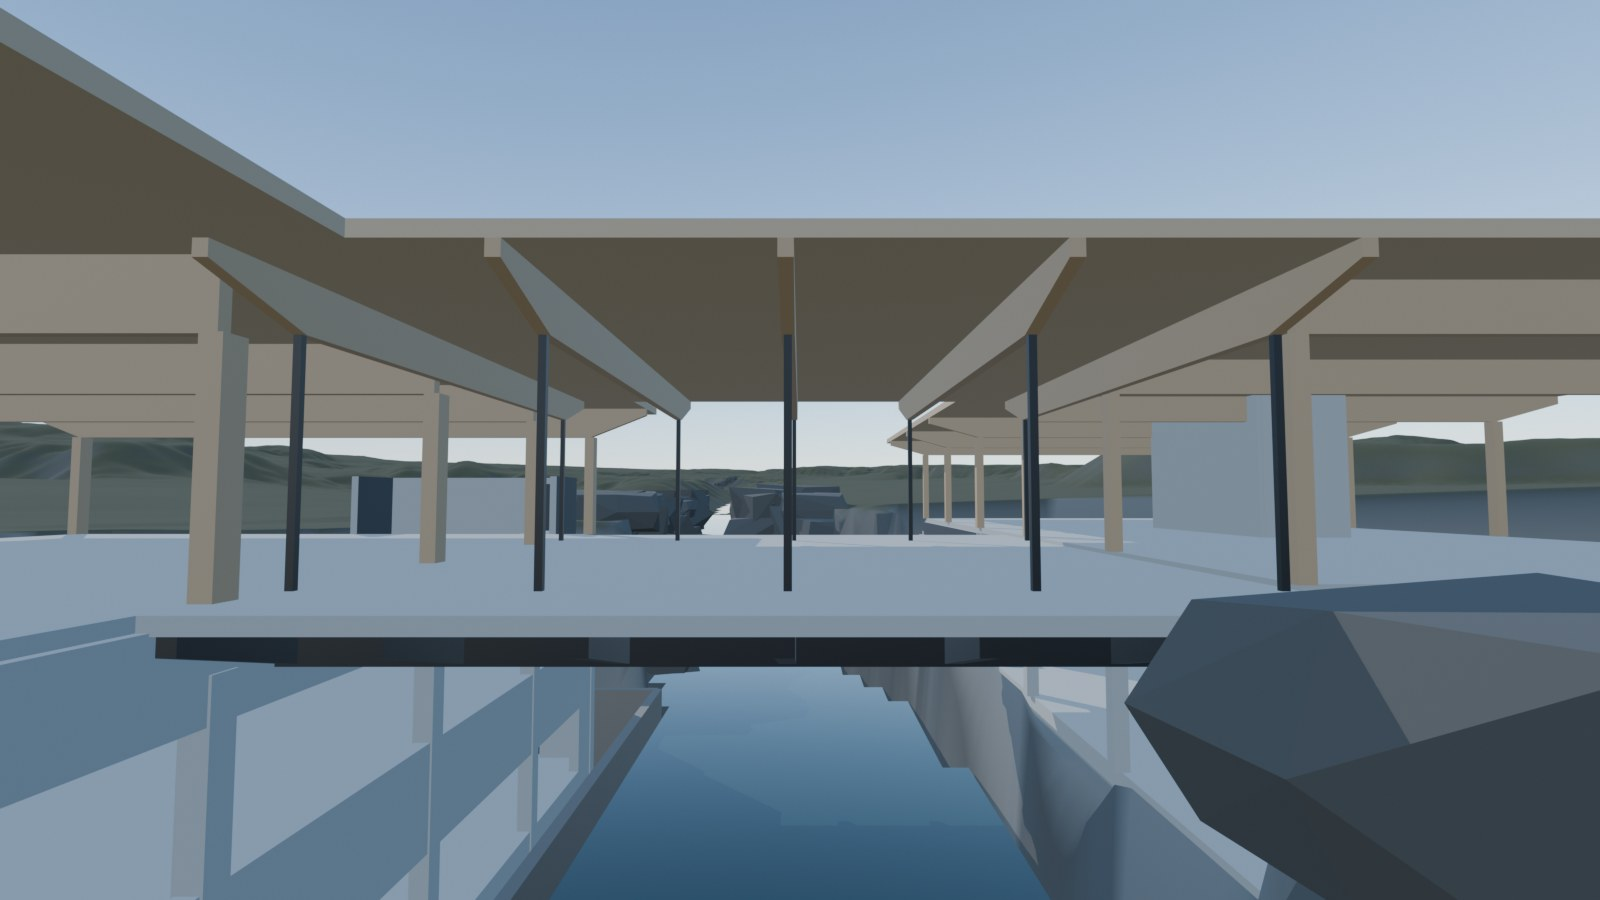
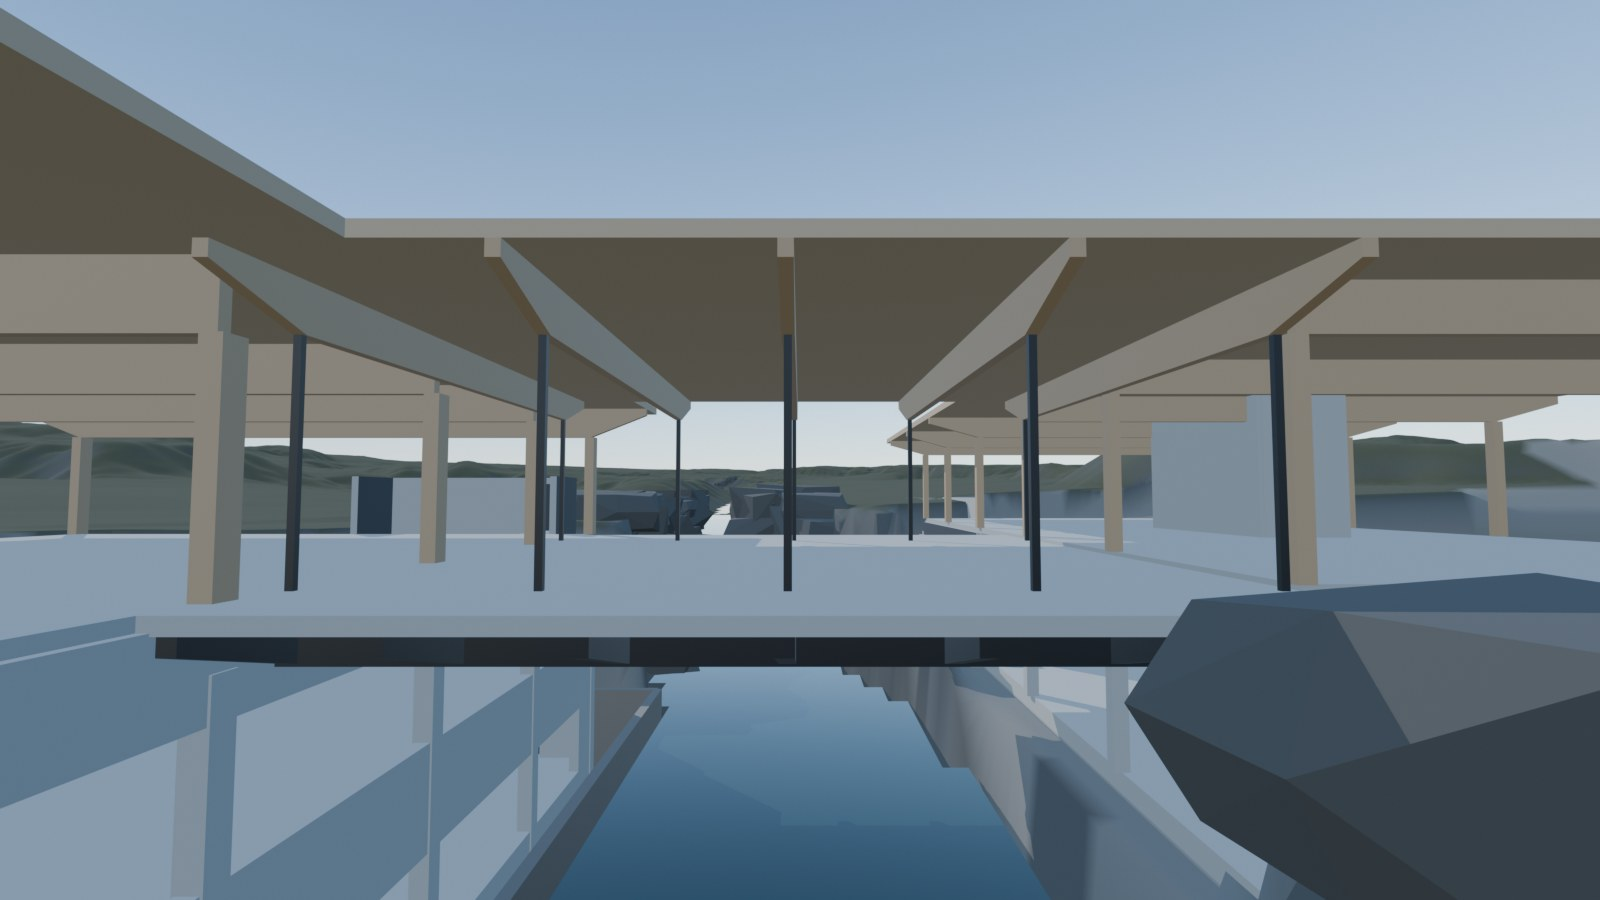
Stage coverage: sunken daycare garden + other missed site earthworks (road, drop-off loop, trailhead lot, garage ledge, sauna pad) now dug in stage 1, garden west retaining wall; tools/stage_check.py runs after every build and flags designed work no stage builds; outbuildings + bridges assigned to s
Prompt: yes do that and see other things that might require that too so we dont miss stuff, also add this as an example of an oversight so we catch stuff like this as we go autoamtically rather than me remind
Prompt-Time: 2026-10-11T06:07:53.900Z
Session-Id: c2657e98-4c3e-42ed-8843-4cbcc10033d7

diff --git a/tools/stage_check.py b/tools/stage_check.py
@@ -1,0 +1,114 @@
+"""Construction coverage check: everything designed must be built by some stage, and nothing a built stage owns may be missing.
+
+Written after an oversight: the sunken daycare garden was designed in the site model, but no construction stage dug it,
+so the daycare's walk-out glass faced untouched ground in the stage 1 and 3 renders (caught by Roman, not by us).
+Runs last in tools/build_model.py and prints a report; it never blocks the build.
+
+Sweeps:
+  1. terrain: every cell where the designed site differs from the natural ground (cut or fill) belongs to a site-work kind;
+     each kind must be owned by a stage, and once that stage is built, the construction terrain must have done the cut.
+  2. site features: every entry in site.features (and every surface / path / stepping-stone line) must be owned by a stage,
+     and an owner stage that is already built must show evidence (elements or earthworks).
+  3. elements: every element has a phase or a planned later stage; every stair and core stair is built once stage 3 is.
+When you add something to the design, give it an owner here; when a stage is built, its evidence has to exist.
+python3 tools/stage_check.py
+"""
+import sys
+from pathlib import Path
+
+import numpy as np
+from matplotlib.path import Path as MPath
+from scipy import ndimage as ndi
+
+ROOT = Path(__file__).resolve().parents[1]
+sys.path.insert(0, str(ROOT / "terrain"))
+import modelio  # noqa: E402
+
+m = modelio.load()
+els = m["elements"]
+ids = {e["id"] for e in els}
+BUILT = max(e.get("phase", 0) for e in els)  # highest construction stage built so far
+issues, notes = [], []
+
+# ---- 1. terrain: site works (terrain/ravine.py MASK kinds) and the stage that does the earthworks
+KIND = {"asphalt": 1, "shoulder": 2, "court": 4, "ramp": 8, "garden": 16, "path": 32, "sauna": 64, "tunnel": 128, "trail": 256,
+        "planting": 512, "stone": 1024, "gravel": 2048, "lawn": 4096, "deck": 8192}
+EARTHWORKS_STAGE = {"asphalt": 1, "shoulder": 1, "court": 1, "ramp": 1, "garden": 1, "sauna": 1, "tunnel": 1, "gravel": 1,
+                    "path": 6, "trail": 6, "planting": 6, "stone": 6, "lawn": 6, "deck": 6, "pad": 1}
+RV, OUT = ROOT / "terrain" / "out" / "ravine", ROOT / "construction" / "out"
+nat, des, fm = np.load(RV / "natural_1m.npy"), np.load(RV / "terrain_1m.npy"), np.load(RV / "features_1m.npy").astype(int)
+stage_t = nat.copy()
+if BUILT >= 1:
+    stage_t = np.minimum(nat + np.load(OUT / "earthworks_1m.npy"), np.load(OUT / "pit_1m.npy"))
+g = np.arange(-1000, 1000) + 0.5
+X, Y = np.meshgrid(g, g)
+pad = np.zeros(X.shape, bool)
+for p in m["site"]["pads"]:
+    pad |= MPath(p["poly"]).contains_points(np.stack([X.ravel(), Y.ravel()], 1)).reshape(X.shape)
+changed = np.abs(des - nat) > 0.3
+_, (iy, ix) = ndi.distance_transform_edt(fm == 0, return_indices=True)
+owner_bits = np.where(fm > 0, fm, np.where(ndi.distance_transform_edt(fm == 0) <= 25, fm[iy, ix], 0))  # side slopes -> nearest work
+unowned = changed & (owner_bits == 0) & ~pad
+if unowned.sum() > 20:
+    issues.append(f"terrain: {int(unowned.sum())} m2 of site works with no feature tag (bbox x {X[unowned].min():.0f}..{X[unowned].max():.0f}, "
+                  f"y {Y[unowned].min():.0f}..{Y[unowned].max():.0f}): tag it in terrain/ravine.py and give it a stage here")
+undug = changed & (des < stage_t - 0.3)  # designed lower than what the built stages have dug
+for k, b in list(KIND.items()) + [("pad", None)]:
+    cells = pad if b is None else (owner_bits & b) > 0
+    work = changed & cells
+    if not work.any():
+        continue
+    st = EARTHWORKS_STAGE.get(k)
+    if st is None:
+        issues.append(f"terrain: site-work kind '{k}' ({int(work.sum())} m2) has no construction stage")
+    elif st <= BUILT and (undug & cells).sum() > 20:
+        u = undug & cells
+        issues.append(f"terrain: '{k}' belongs to stage {st} (built) but {int(u.sum())} m2 / {float((stage_t - des)[u].sum()):.0f} m3 is not dug "
+                      f"(bbox x {X[u].min():.0f}..{X[u].max():.0f}, y {Y[u].min():.0f}..{Y[u].max():.0f})")
+
+# ---- 2. site features: owner stages + evidence once a stage is built ("terrain" = covered by sweep 1, else an element id prefix)
+FEATURES = {
+    "road": {1: "terrain", 6: None}, "garage_ramp": {1: "FDN-ramp-"}, "daycare_garden": {1: "FDN-garden-wall-", 6: None},
+    "sauna": {6: None}, "sauna_path": {6: None}, "trail": {6: None}, "bike_shelter": {6: None}, "trailhead_sign": {6: None},
+    "outdoor_rig": {6: None},
+}
+LIST_STAGE = {"asphalt": {1: "terrain", 6: None}, "gravel": {1: "terrain", 6: None}, "lawn": {6: None}, "planting": {6: None}, "deck": {6: None}}
+for name, v in m["site"]["features"].items():
+    if not isinstance(v, (dict, list)):
+        continue
+    entries = [(name, FEATURES.get(name))] if isinstance(v, dict) else \
+        [(f"{name}:{it['id']}", LIST_STAGE.get(it.get("kind"), {6: None}) if name == "surfaces" else {6: None}) for it in v]
+    for label, own in entries:
+        if own is None:
+            issues.append(f"feature '{label}' has no construction stage: add it to FEATURES in tools/stage_check.py and to CONSTRUCTION_PLAN.md")
+            continue
+        for st, ev in own.items():
+            if st <= BUILT and ev not in (None, "terrain") and not any(i.startswith(ev) for i in ids):
+                issues.append(f"feature '{label}': stage {st} is built but nothing matches '{ev}*'")
+
+# ---- 3. elements, stairs, cores
+LATER = [(lambda e: e.get("material") == "glass" or e.get("kind") == "glazed", 4), (lambda e: e.get("material") == "sod", 4),
+         (lambda e: e.get("kind") == "partition" or e.get("material") == "timber_stud", 5)]
+for e in els:
+    if e.get("phase") is None and not any(f(e) for f, _ in LATER):
+        issues.append(f"element {e['id']} ({e['type']} {e.get('material')}) has no phase and no planned stage")
+later = {}
+for e in els:
+    if e.get("phase") is None:
+        st = next(s for f, s in LATER if f(e)); later[st] = later.get(st, 0) + 1
+notes.append("waiting for later stages: " + ", ".join(f"stage {s}: {n} elements" for s, n in sorted(later.items())))
+if BUILT >= 3:
+    for st in m["stairs"]:
+        ev = f"ST3-{st['id']}" if st["kind"] == "spiral" else "ST3-stair-N34" if st["id"] == "north_f3_f4" else None
+        if ev is None or ev not in ids and not any(i.startswith(ev) for i in ids):
+            issues.append(f"stair {st['id']} is not built in stage 3")
+    for c in {s["id"].split("-")[1] for s in m["spaces"] if s["kind"] == "core" and "stair" in s["name"]}:
+        if not any(i.startswith(f"ST3-stair-{c}-") for i in ids):
+            issues.append(f"core {c} has a stair in the plan but no stair flights")
+notes.append(f"fixtures (stage 5): {len(m.get('fixtures', []))}")
+
+print(f"stage check (built up to stage {BUILT}): " + ("OK" if not issues else f"{len(issues)} issue(s)"))
+for i in issues:
+    print("  !", i)
+for n in notes:
+    print("  ·", n)

diff --git a/tools/foundations.py b/tools/foundations.py
@@ -157,6 +157,13 @@ x_a, x_b = min(p[0] for p in pts if p[0] <= rp["tunnel_from_x"] + 0.01), rp["tun
 add({"id": "FDN-ramp-tunnel-roof", "type": "slab", "material": "concrete", "rect": [round(x_a, 2), -1.0 - hw, round(x_b, 2), -1.0 + hw],
      "z": [-1.6, -1.2], "note": "cut-and-cover tunnel roof, backfilled + landscaped"}, 96)
 
+# ---- the sunken garden's west retaining wall (trail side)
+gd = m["site"]["features"]["daycare_garden"]
+add({"id": "FDN-garden-wall-W", "type": "wall", "kind": "retaining", "material": "concrete", "from": [gd["west_wall_x"], gd["building_edge_y"]], "to": [gd["west_wall_x"], 47.0],
+     "size": [0.35, 0], "z": [-1.8, 1.6], "note": "sunken-garden retaining wall on the trail side: concrete core, dry-stone face in stage 6; top steps with the ground (simplified)"}, 95)
+add({"id": "FDN-strip-garden-wall-W", "type": "strip_footing", "material": "concrete", "from": [gd["west_wall_x"], gd["building_edge_y"]], "to": [gd["west_wall_x"], 47.0],
+     "size": [1.2, 0.4], "z": [-2.2, -1.8], "note": "strip footing under the garden wall"}, 50)
+
 m["elements"] = els + new
 modelio.save(m)
 
@@ -179,6 +186,22 @@ for k in range(len(pts) - 1):  # ramp trench
     pit = np.minimum(pit, floor + np.maximum(dist - hw - 1.0, 0) * tan_face)
 out = ROOT / "construction" / "out"; out.mkdir(parents=True, exist_ok=True)
 np.save(out / "pit_1m.npy", pit.astype(np.float32))
+
+# ---- site earthworks: in stage 1 these cells are cut / filled to their designed (formation) level
+RV = ROOT / "terrain" / "out" / "ravine"
+designed, natural0, fm = np.load(RV / "terrain_1m.npy"), np.load(RV / "natural_1m.npy"), np.load(RV / "features_1m.npy").astype(int)
+EARTHWORKS = 1 | 2 | 4 | 8 | 16 | 64 | 2048  # terrain/ravine.py MASK: asphalt, shoulder, court, ramp, garden, sauna, gravel
+ew = (fm & EARTHWORKS) > 0
+pts2 = np.stack([X.ravel(), Y.ravel()], 1)
+for pad in m["site"]["pads"]:  # rock shelves etc. cut to a level
+    ew |= MPath(pad["poly"]).contains_points(pts2).reshape(X.shape)
+# side slopes of the graded corridors carry no tag: they belong to the nearest tagged work within 25 m
+changed = np.abs(designed - natural0) > 0.05
+_, (iy, ix) = ndi.distance_transform_edt(fm == 0, return_indices=True)
+near = ndi.distance_transform_edt(fm == 0) <= 25
+ew |= changed & (fm == 0) & near & ew[iy, ix]
+# stored as a height change, so it lands on the (eroded) natural ground of the construction scenes without steps at the edges
+np.save(out / "earthworks_1m.npy", np.where(ew & changed, designed - natural0, 0).astype(np.float32))
 W = np.load(ROOT / "terrain" / "out" / "ravine" / "water_1m.npy")
 dry = (~np.isnan(W)) & (X < -4.0) & (Y > -43) & (Y < 16)
 np.save(out / "dewatered_1m.npy", dry.astype(np.uint8))

diff --git a/construction/scene.py b/construction/scene.py
@@ -39,9 +39,10 @@ rock = np.load(RV / "rock_natural_1m.npy")  # rock on the natural ravine walls (
 cut = np.zeros_like(natural)
 H = natural.copy()
 if STAGE >= 1:
-    pit = np.load(ROOT / "construction" / "out" / "pit_1m.npy")  # written by construction/foundations.py
-    cut = (pit < natural - 0.05).astype(np.float32)
-    H = np.minimum(natural, pit)
+    pit = np.load(ROOT / "construction" / "out" / "pit_1m.npy")  # written by tools/foundations.py
+    ew = np.load(ROOT / "construction" / "out" / "earthworks_1m.npy")  # cut / fill: road, garden, ledge, sauna pad (tools/foundations.py)
+    H = np.minimum(natural + ew, pit)
+    cut = (H < natural - 0.05).astype(np.float32)
 
 site0 = bc.collection("0 · site")
 terr = bc.grid_mesh("terrain_detail", H[c], DX0 + 0.5, DY0 + 0.5, 1.0, {"rock": rock[c], "cut": cut[c]}, coll=site0)
@@ -184,6 +185,7 @@ CAMS = {
     "lounge_deck": ((3, -24, 1.7), (3, 2, 3.2), 18),
     "hall_f1": ((-9, -32, 1.7), (-24, 8, 3.8), 16),
     "spiral": ((-12.5, -22, -8.0), (-17.95, -14.85, -4.5), 16),
+    "daycare_garden": ((46, 82, 24), (22, 38, -5), 26),
 }
 for n, (loc, tgt, lens) in CAMS.items():
     bc.camera(scene, f"cam_{n}", loc, tgt, lens)
@@ -192,8 +194,8 @@ for o in bpy.data.objects:  # primitives + boolean results: flat shading for eve
         o.data.polygons.foreach_set("use_smooth", np.zeros(len(o.data.polygons), bool))
 bpy.ops.wm.save_as_mainfile(filepath=str(OUT / f"stage_{STAGE}.blend"))
 if RENDER:
-    shots = {0: ["site_aerial", "ravine_upstream", "site_top"], 1: ["pit_overview", "pit_east", "cofferdam", "pit_floor", "site_top"],
-             3: ["frame_overview", "frame_east", "frame_gorge", "roof_eaves", "lounge_deck", "hall_f1", "spiral", "site_top"]}
+    shots = {0: ["site_aerial", "ravine_upstream", "site_top"], 1: ["pit_overview", "pit_east", "cofferdam", "pit_floor", "daycare_garden", "site_top"],
+             3: ["frame_overview", "frame_east", "frame_gorge", "roof_eaves", "lounge_deck", "hall_f1", "spiral", "daycare_garden", "site_top"]}
     for n in shots[max(k for k in shots if k <= STAGE)]:
         scene.camera = bpy.data.objects[f"cam_{n}"]
         scene.render.filepath = str(OUT / f"stage_{STAGE}_{n}.png")

diff --git a/tools/build_model.py b/tools/build_model.py
@@ -1,9 +1,9 @@
-"""Regenerate everything derived in model/building.json, in order: layout -> structure -> partitions -> room numbers -> foundations -> stage-3 structure."""
+"""Regenerate everything derived in model/building.json, in order: layout -> structure -> partitions -> room numbers -> foundations -> stage-3 structure -> stage coverage check."""
 import subprocess, sys
 from pathlib import Path
 ROOT = Path(__file__).resolve().parents[1]
 PY = str(ROOT / "terrain" / ".venv" / "bin" / "python")
-for step in ("layout_v1.py", "structure.py", "partitions.py", "annotate.py", "foundations.py", "structure_stage.py"):
+for step in ("layout_v1.py", "structure.py", "partitions.py", "annotate.py", "foundations.py", "structure_stage.py", "stage_check.py"):
     r = subprocess.run([PY, str(ROOT / "tools" / step)], capture_output=True, text=True)
     print(r.stdout.strip() or r.stderr.strip())
     if r.returncode:

diff --git a/CONSTRUCTION_PLAN.md b/CONSTRUCTION_PLAN.md
@@ -13,6 +13,7 @@ Source of truth stays `model/building.json`. Each stage adds real elements to it
   - below-grade retaining walls + the river wall with its formed window openings
   - waterproofing membranes, drainage gravel + perimeter drains
   - garage-ramp trench walls + cut-and-cover tunnel roof
+  - site earthworks to formation level (added 2026-10-11, after the garden was missed): road + drop-off loop + trailhead lot, the **sunken daycare garden** (dug out, terraces roughed in, west retaining wall), the garage rock ledge, the sauna pad
 - ✅ **Stage 2 · Exterior style: LOCKED = B, dark tarred timber + sod roofs, divided glazing** (see VISION.md, `docs/style/`).
 - ✅ **Stage 3 · Structure** (awaiting Roman's review): `construction/out/stage_3.blend`, renders in `construction/renders/stage_3_*`. 214 phase-3 elements from `tools/structure_stage.py` (see STRUCTURE.md):
   - PT concrete floors F1–F3 + E1, pilasters, glulam facade columns, parking columns + buried roof
@@ -32,7 +33,7 @@ Source of truth stays `model/building.json`. Each stage adds real elements to it
 | 3 | **Structure** | Concrete frame of F2–F4 (post-tensioned beams, slabs), glulam columns + beams on F1/E1, CLT roofs, lounge-bridge trusses, stairs, cores. | Review |
 | 4 | **Envelope** | Wall build-ups, cladding (per the chosen style), glazing systems, river windows, roof build-ups (sod, eaves), skylights. | Review |
 | 5 | **Interior** | Finishes, the equipment layout from `docs/FIT_STUDY.md`, lighting, locker fit-out, the den, pool + thermal, daycare, cafe. | Review |
-| 6 | **Landscape + finish** | Planting + forest, paths, water and falls, exterior lighting, final renders, then the replay video. | Final |
+| 6 | **Landscape + finish** | Planting + forest, paths, trail, water and falls, exterior lighting; surfacing (road asphalt, gravel lot, meadow, stepping stones); finishing the sunken garden (dry-stone face, terrace planting, play surface); **outbuildings + bridges**, each foundation → frame → envelope: sauna, bike shelter, rustic footbridge, upstream timber footbridge, trailhead kiosk, outdoor rig; final renders, then the replay video. | Final |
 
 ## Rules for every stage
 
@@ -41,3 +42,4 @@ Source of truth stays `model/building.json`. Each stage adds real elements to it
 - Every element has `phase` (stage number) and `seq` (order within the stage) for the construction timelapse.
 - Heavy things stay instanced (trees, anchors); one Blender collection per phase.
 - The PDF drawing set is only re-exported when Roman asks.
+- **Coverage check:** `tools/stage_check.py` runs at the end of every build. Everything designed (site works in the terrain, site features, elements, stairs) must have an owner stage, and once that stage is built its work must exist. A new feature with no owner, or a built stage that skipped something, shows up as `!` lines. Fix those before showing Roman a stage. (Origin: the sunken daycare garden was designed but no stage dug it.)

diff --git a/HANDOFF.md b/HANDOFF.md
@@ -2,9 +2,10 @@
 
 State on 2026-10-11: stages 0-3 built, stage 3 (structure) **awaiting Roman's review**; next = stage 4 · Envelope (see CONSTRUCTION_PLAN.md).
 
-- Source of truth: `model/building.json`. Rebuild everything derived: `terrain/.venv/bin/python tools/build_model.py` (layout → structure → partitions → room numbers → foundations → stage-3 structure).
+- Source of truth: `model/building.json`. Rebuild everything derived: `terrain/.venv/bin/python tools/build_model.py` (layout → structure → partitions → room numbers → foundations → stage-3 structure → stage coverage check).
 - Terrain: `terrain/` scripts (ravine.py → erode.py → export_blueprint.py). Construction scenes: `blender -b --factory-startup --python construction/scene.py -- <stage> render` (stages 0, 1, 3 built; stage 3 elements come from `tools/structure_stage.py`, run last by build_model).
 - Drawings: `cd blueprint && npx vite --port 5280` (H replay, P A1 sheets, D dark). PDF only when Roman asks: `node tools/export/export_pdf.js`.
 - Decisions: VISION.md (incl. LOCKED exterior style B), STRUCTURE.md, DECISIONS_PENDING.md, docs/AUDIT.md, docs/FIT_STUDY.md.
 - Roman's standing rules: open plan + no door unless needed; column-free; Gym V2 is his intent reference; no PDF re-export unless asked; every commit carries the Prompt trailer (hook in tools/capture).
+- Before showing a stage: `build_model.py` ends with the stage coverage check (`tools/stage_check.py`); it must say OK. New design features need an owner stage in that file.
 - Gotcha: Blender 4.1+ makes new faces smooth unless set flat (handled in construction/bl_common.py).

diff --git a/.claude/commands/amnesia.md b/.claude/commands/amnesia.md
@@ -16,6 +16,7 @@ You've lost context on The Gym (a luxury Nordic gym in an Elverum ravine, design
    - column-free
    - Gym V2 is his intent reference
    - no PDF re-export unless asked
+   - nothing designed gets skipped by the construction stages: run `terrain/.venv/bin/python tools/stage_check.py` and report any `!` lines
 4. Check the replay/recording is intact:
    - every commit carries a `Prompt:` trailer (`tools/capture/`)
    - `.capture/sessions/` archives the transcripts
